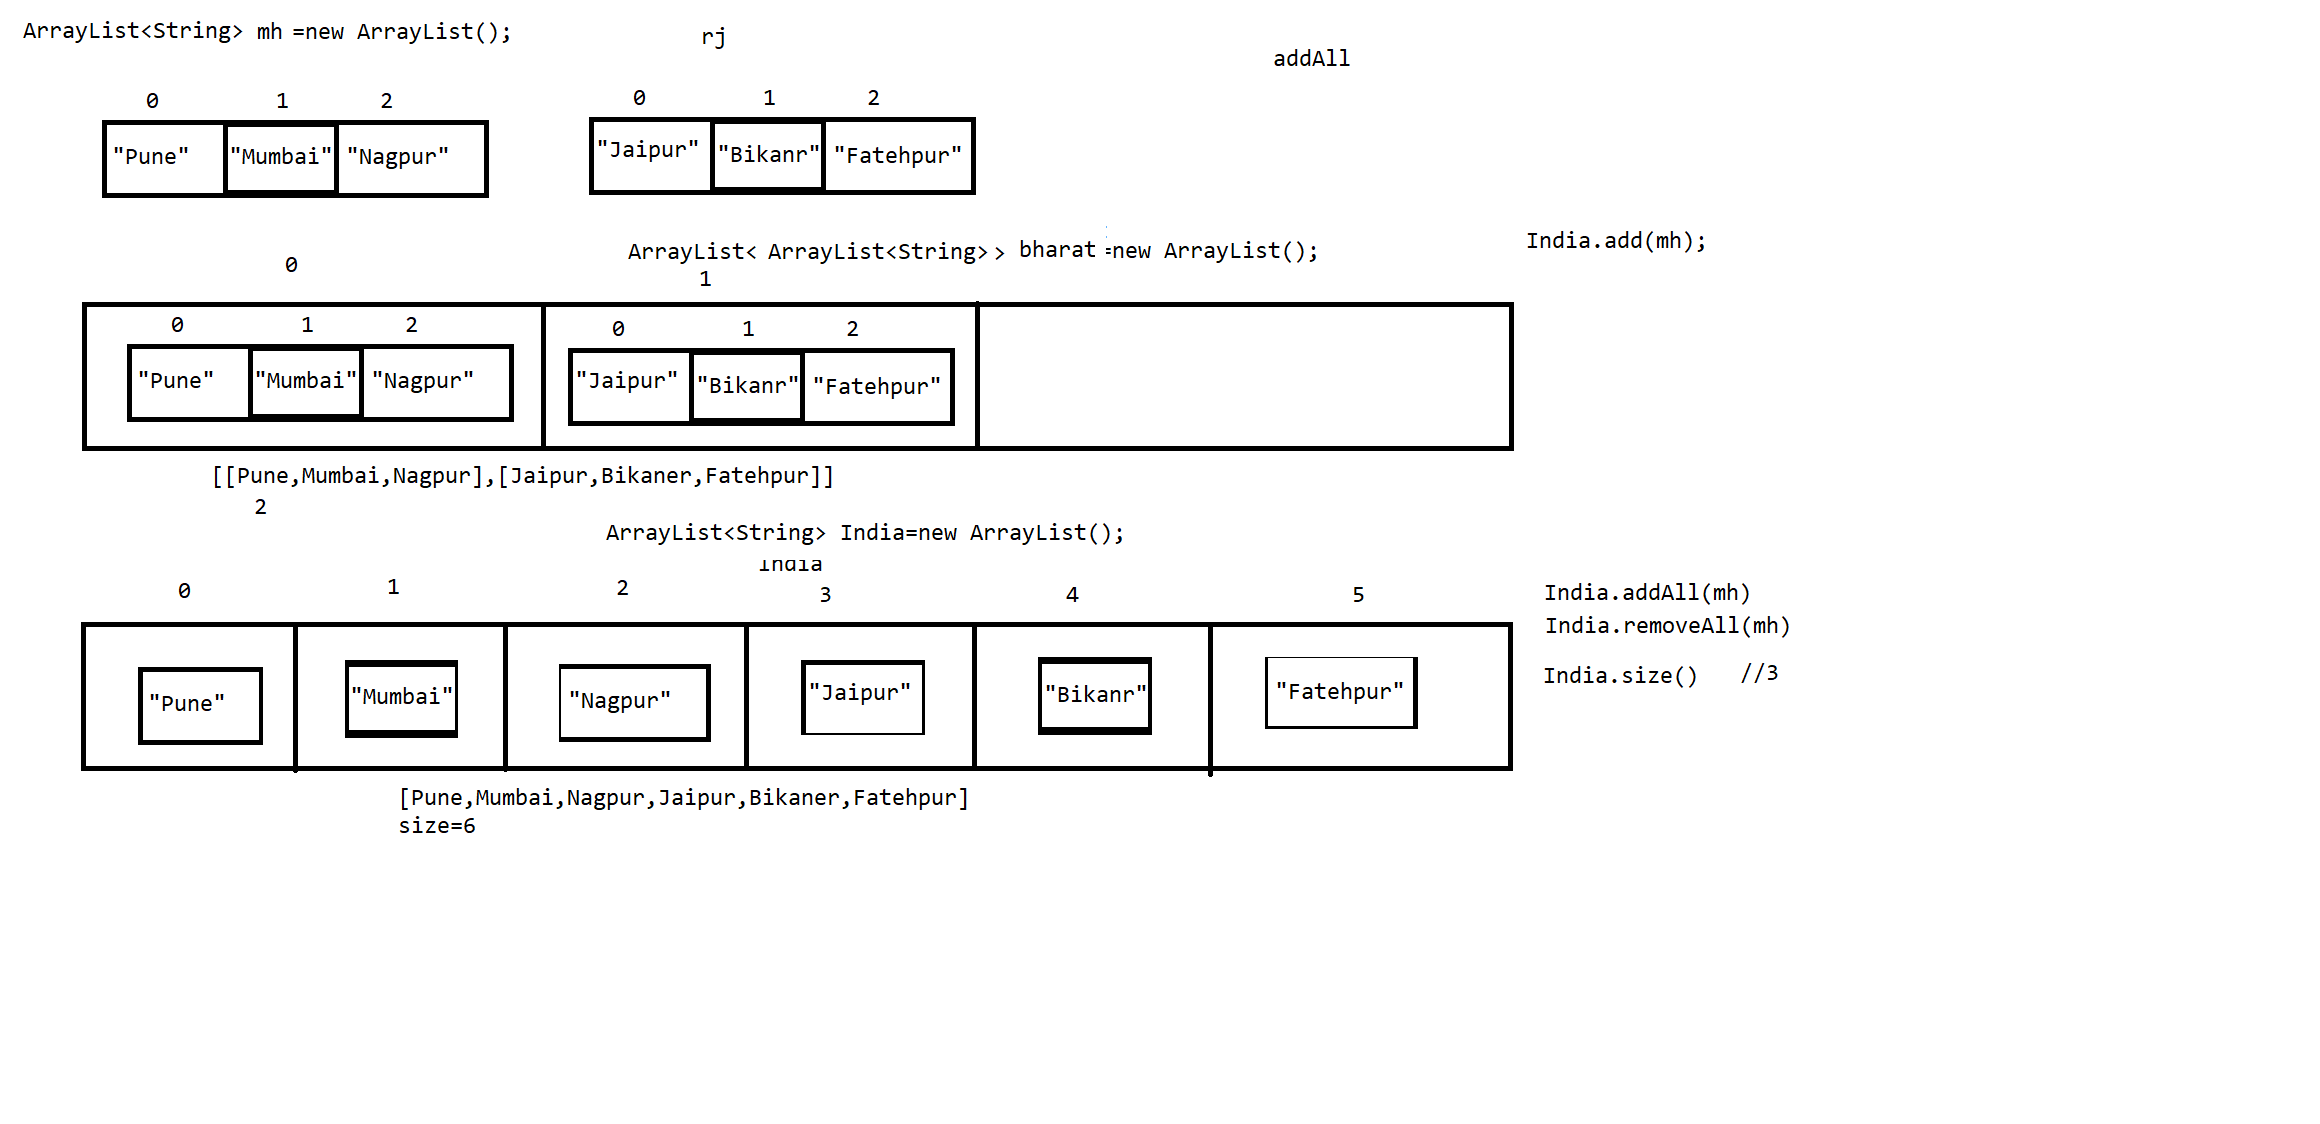
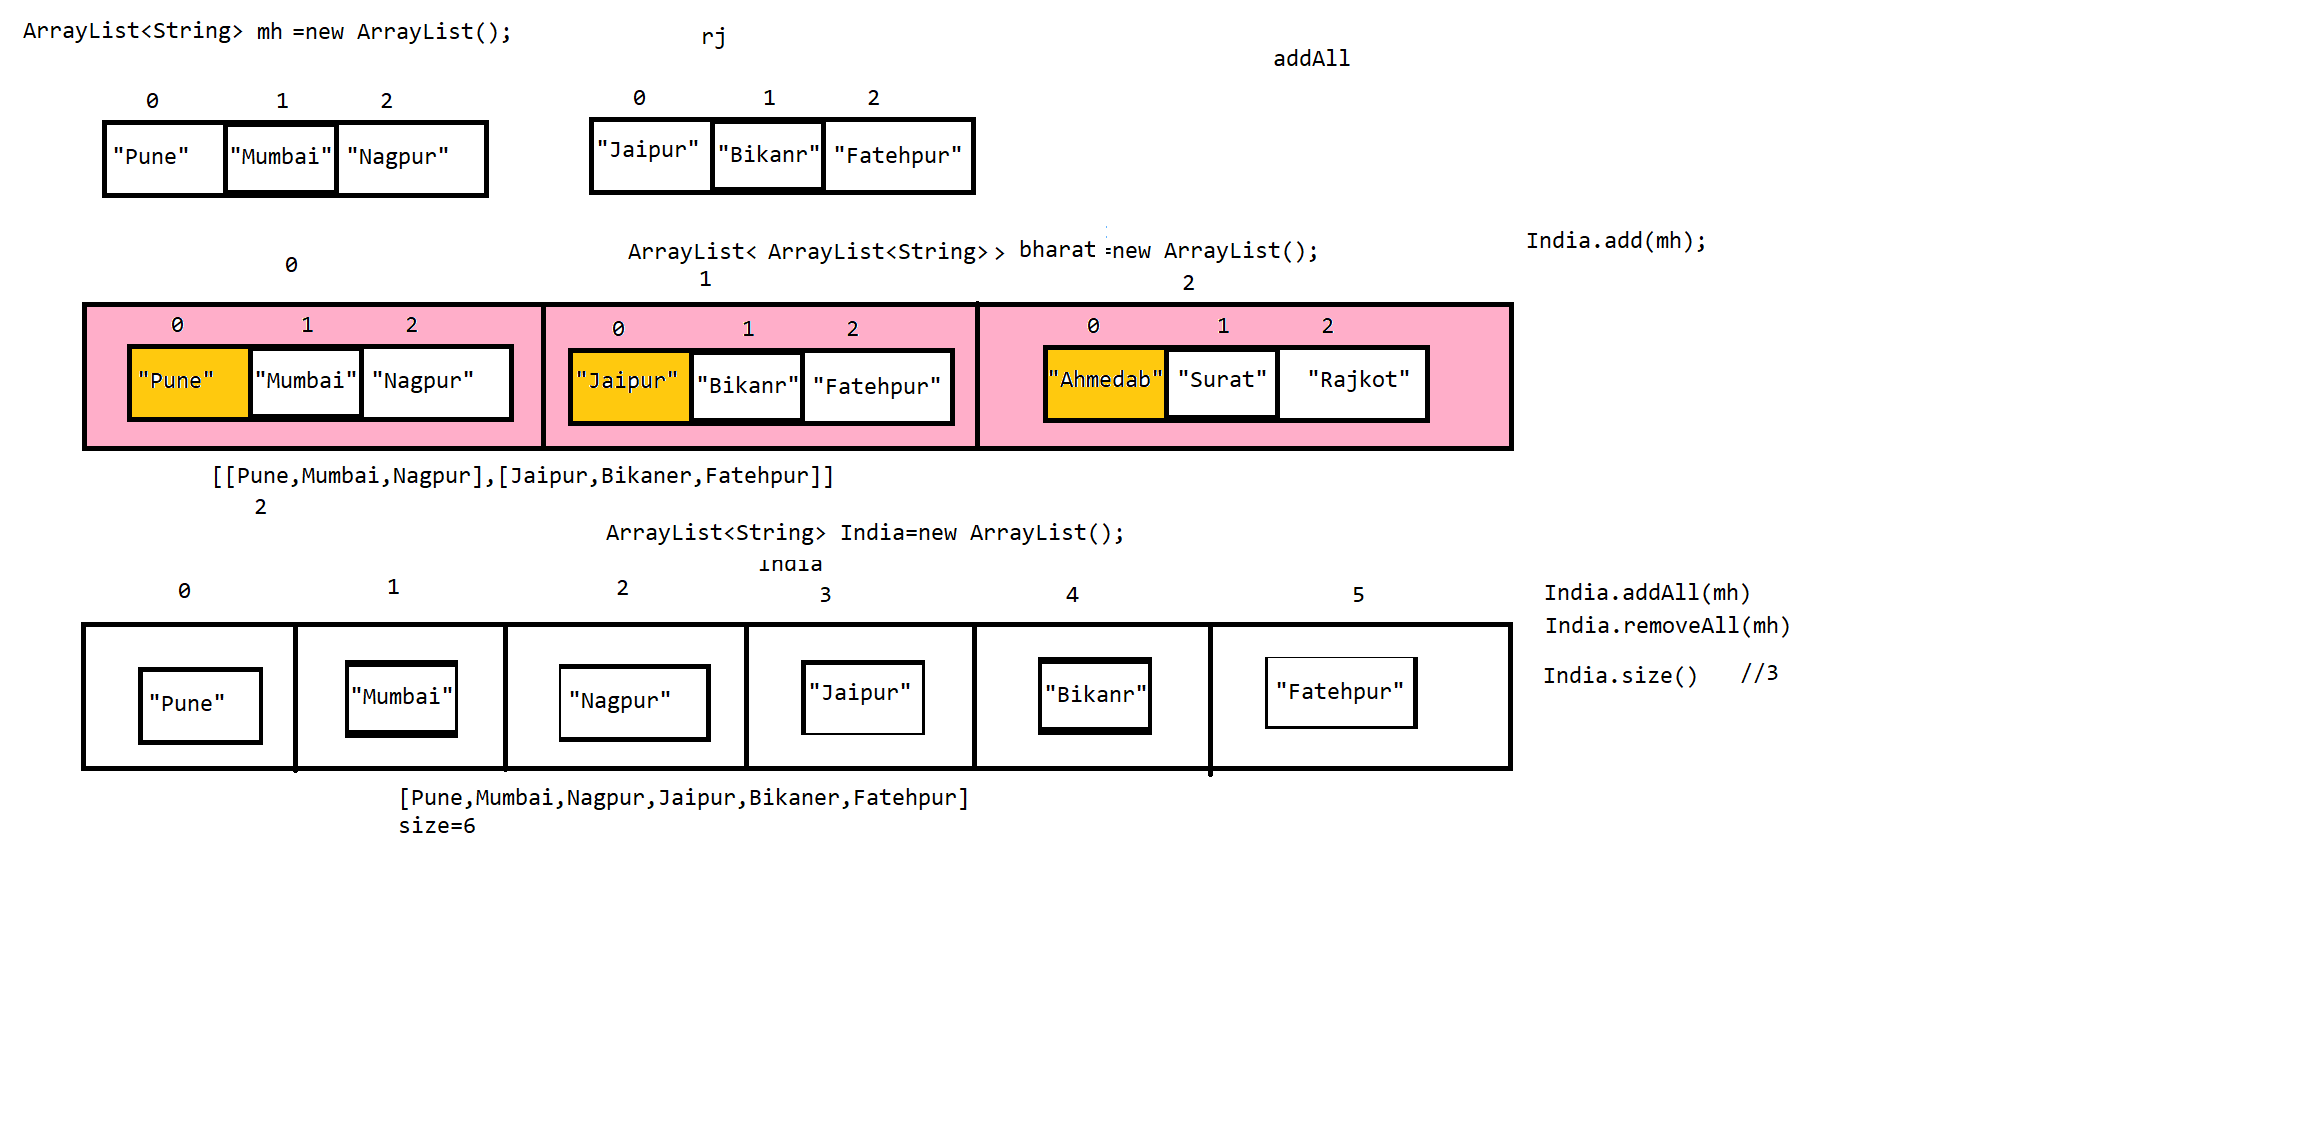
comparable comparator

Changed region(s): [[0.031, 0.2491, 0.6517, 0.4048]]

diff --git a/src/day18/Student.java b/src/day18/Student.java
@@ -1,0 +1,80 @@
+package day18;
+
+public class Student //implements Comparable<Student>
+{											
+
+	private int rno;						
+	private String sname;					
+	private double per;						
+	
+	public Student() {}		
+	public Student(int rno, String sname, double per) throws RuntimeException		
+	{
+		if(sname==null)
+			throw new RuntimeException("Please enter valid name");
+		this.rno = rno;
+		this.sname = sname;
+		this.per = per;
+	}
+	
+	public Student(Student st) 
+	{
+		this.rno = st.rno;
+		this.sname = st.sname;
+		this.per = st.per;
+	}
+	public int getRno() {
+		return rno;
+	}
+	public void setRno(int rno) {
+		this.rno = rno;
+	}
+	public String getSname() {
+		return sname;
+	}
+	public void setSname(String sname) {
+		this.sname = sname;
+	}
+	public double getPer() {
+		return per;
+	}
+	public void setPer(double per) {
+		this.per = per;
+	}
+	
+	
+	@Override
+	public String toString() {
+		return "Student [rno=" + rno + ", sname=" + sname + ", per=" + per + "]";
+	}
+	
+//	@Override
+//	public int compareTo(Student s1) //compare by rno in ASC order
+//	{
+//		if(this.rno > s1.rno)
+//			return 1;
+//		else if(this.rno < s1.rno)
+//			return -1;
+//		else
+//			return 0;
+//	}
+	
+//	@Override
+//	public int compareTo(Student s1) //compare by per in DESC order
+//	{
+//		if(this.per > s1.per)
+//			return -1;
+//		else if(this.per < s1.per)
+//			return 1;
+//		else
+//			return 0;
+//	}
+	
+	
+//	@Override
+//	public int compareTo(Student s1) //compare by name in ASC order
+//	{
+//		return this.sname.compareTo(s1.sname);
+//	}
+}
+

diff --git a/src/day18/TreeSetOfCustomClass.java b/src/day18/TreeSetOfCustomClass.java
@@ -1,0 +1,41 @@
+package day18;
+
+import java.util.TreeSet;
+
+public class TreeSetOfCustomClass {
+
+	public static void main(String[] args) {
+		
+		Student s1=new Student(18,"Virat",99.5);
+		Student s2=new Student(45,"Rohit",88.5);
+		Student s3=new Student(1,"Rahul",98.5);
+		
+		TreeSet<Student> fyStudentsAttendance=new TreeSet(new RnoComparator());	//compare by rno in ASC Order
+		
+		fyStudentsAttendance.add(s1);
+		fyStudentsAttendance.add(s2);
+		fyStudentsAttendance.add(s3);		//[[1,Rahul,98.5],[18,Virat,99.5][45,Rohit,88.5]
+	
+		System.out.println("***Attendance List***");
+		System.out.println(fyStudentsAttendance);
+		
+		TreeSet<Student> fyStudentsExamSeating=new TreeSet(new NameComparator());	//compare by name in ASC Order
+		fyStudentsExamSeating.add(s1);
+		fyStudentsExamSeating.add(s2);
+		fyStudentsExamSeating.add(s3);	
+		System.out.println("***Exam Seating Order***");
+		System.out.println(fyStudentsExamSeating);	//[[1,Rahul,98.5],[45,Rohit,88.5],[18,Virat,99.5]]
+		
+		
+		TreeSet<Student> fyStudentsResultList=new TreeSet(new PerComparator());	//compare by name in ASC Order
+		fyStudentsResultList.add(s1);
+		fyStudentsResultList.add(s2);
+		fyStudentsResultList.add(s3);
+		System.out.println("***Results Published***");
+		System.out.println(fyStudentsResultList); // [[18,Virat,99.5],[1,Rahul,98.5],[45,Rohit,88.5]]
+	}
+
+}
+
+//Comparable
+//Comparator

diff --git a/src/day17/TreeSetDemo.java b/src/day17/TreeSetDemo.java
@@ -5,7 +5,7 @@ import java.util.TreeSet;
 public class TreeSetDemo {
 
 	public static void main(String[] args) {
-		TreeSet<String> names=new TreeSet();   //Natural Sorting Order  Asc order by char
+		TreeSet<String> names=new TreeSet();   //homogenous - Natural Sorting Order  Asc order by char
 		names.add("Alice");
 		names.add("Tom");
 		names.add("Ben");
@@ -16,6 +16,11 @@ public class TreeSetDemo {
 		names.add("George");
 		System.out.println(names);
 		
+		
+		TreeSet names1=new TreeSet();	//default in homogenous mode bcoz it has to compare and add
+		names1.add("Alice");
+		names1.add(100);
+		names1.add("Ben");
 		
 	}
 

diff --git a/src/day18/PerComparator.java b/src/day18/PerComparator.java
@@ -1,0 +1,18 @@
+package day18;
+
+import java.util.Comparator;
+
+public class PerComparator implements Comparator<Student>
+{
+
+	@Override
+	public int compare(Student s1, Student s2) {
+		if(s1.getPer() > s2.getPer())
+			return -1;
+		else if(s1.getPer() < s2.getPer())
+			return 1;
+		else
+			return 0;
+	}
+
+}

diff --git a/src/day18/RnoComparator.java b/src/day18/RnoComparator.java
@@ -1,0 +1,18 @@
+package day18;
+
+import java.util.Comparator;
+
+public class RnoComparator implements Comparator<Student>
+{
+
+	@Override
+	public int compare(Student s1, Student s2) {
+		if(s1.getRno() > s2.getRno())
+			return 1;
+		else if(s1.getRno() < s2.getRno())
+			return -1;
+		else
+			return 0;
+	}
+
+}

diff --git a/src/day17/ArrayListOfCustomClass.java b/src/day17/ArrayListOfCustomClass.java
@@ -40,7 +40,7 @@ public static void main(String[] args) {
 	
 	//display name of first student of all classes
 	System.out.println("-------");
-	for(ArrayList<Student> year:bcom)
+	for(ArrayList<Student> year:bcom)		//year syStudent
 	{
 		System.out.println(year.get(0).getSname());
 	}

diff --git a/src/day18/NameComparator.java b/src/day18/NameComparator.java
@@ -1,0 +1,12 @@
+package day18;
+
+import java.util.Comparator;
+
+public class NameComparator implements Comparator<Student>{
+
+	@Override
+	public int compare(Student o1, Student o2) {
+		return o1.getSname().compareTo(o2.getSname());
+	}
+
+}
